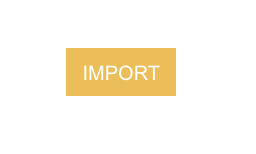
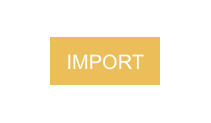
Update image formatting for snippets

Changed region(s): [[0.2275, 0.2927, 0.7678, 0.7073]]

diff --git a/2.4/snippets/javascript/pointer-position.md b/2.4/snippets/javascript/pointer-position.md
@@ -1,18 +1,18 @@
 # Pointer position example
 
-<div class="ndl-images">
-    <img src="/snippets/javascript/pointer-position.png" class="ndl-image large"></img>  
+<div class="ndl-image-with-background l">
+    <img src="/snippets/javascript/pointer-position.png"></img>
      <button class="ndl-copy-nodes-button" onClick='copyJsonToClipboard({"nodes":[{"id":"0f09b7cb-50ab-74b8-52c1-7058a0769284","type":"Javascript2","label":"Pointer Position","x":-497.981910869314,"y":389.26538248207396,"parameters":{"code":"function setPosition(e) {\n    Node.Outputs.PointerX = e.clientX;\n    Node.Outputs.PointerY = e.clientY;\n}\n\nNode.OnInit = function() {\n     document.body.addEventListener(\"mousemove\", setPosition);\n\t document.body.addEventListener(\"mousedown\", setPosition);\n}\n\nNode.OnDestroy = function() {\n\t document.body.removeEventListener(\"mousedown\", setPosition);\n\t document.body.removeEventListener(\"mousemove\", setPosition);    \n}"},"ports":[],"children":[]},{"id":"bdc3ce12-5c23-27ee-7918-ad154b20e668","type":"Number","label":"X","x":-249.18868850167155,"y":333.4616732156818,"parameters":{},"ports":[],"children":[]},{"id":"efbbb196-1b60-27f2-26c6-e7fc0d69d23d","type":"Number","label":"Y","x":-256.3223936828915,"y":481.4925282575018,"parameters":{},"ports":[],"children":[]}],"connections":[{"fromId":"0f09b7cb-50ab-74b8-52c1-7058a0769284","fromProperty":"PointerX","toId":"bdc3ce12-5c23-27ee-7918-ad154b20e668","toProperty":"value"},{"fromId":"0f09b7cb-50ab-74b8-52c1-7058a0769284","fromProperty":"PointerY","toId":"efbbb196-1b60-27f2-26c6-e7fc0d69d23d","toProperty":"value"}]})'></button>
 </div>
 
-This example will attach an event listener to the body element of the web page, and listen for mousemove. 
+This example will attach an event listener to the body element of the web page, and listen for mousemove.
 
 ```js
-Node.OnInit = function() {
-   document.body.addEventListener("mousemove", e=> {
-       Node.Outputs.PointerX = e.clientX;
-       Node.Outputs.PointerY = e.clientY;
-    }) 
+Node.OnInit = function () {
+    document.body.addEventListener('mousemove', (e) => {
+        Node.Outputs.PointerX = e.clientX
+        Node.Outputs.PointerY = e.clientY
+    })
 }
 ```
 
@@ -20,13 +20,13 @@ Now lets extend this to also include the `mousedown` event, so it updates direct
 
 ```js
 function setPosition(e) {
-    Node.Outputs.PointerX = e.clientX;
-    Node.Outputs.PointerY = e.clientY;
+    Node.Outputs.PointerX = e.clientX
+    Node.Outputs.PointerY = e.clientY
 }
 
-Node.OnInit = function() {
-     document.body.addEventListener("mousemove", setPosition);
-	 document.body.addEventListener("mousedown", setPosition);
+Node.OnInit = function () {
+    document.body.addEventListener('mousemove', setPosition)
+    document.body.addEventListener('mousedown', setPosition)
 }
 ```
 
@@ -34,17 +34,17 @@ We can extend this even further by removing the event listener when the JavaScri
 
 ```js
 function setPosition(e) {
-    Node.Outputs.PointerX = e.clientX;
-    Node.Outputs.PointerY = e.clientY;
+    Node.Outputs.PointerX = e.clientX
+    Node.Outputs.PointerY = e.clientY
 }
 
-Node.OnInit = function() {
-     document.body.addEventListener("mousemove", setPosition);
-	 document.body.addEventListener("mousedown", setPosition);
+Node.OnInit = function () {
+    document.body.addEventListener('mousemove', setPosition)
+    document.body.addEventListener('mousedown', setPosition)
 }
 
-Node.OnDestroy = function() {
-	 document.body.removeEventListener("mousedown", setPosition);
-	 document.body.removeEventListener("mousemove", setPosition);    
+Node.OnDestroy = function () {
+    document.body.removeEventListener('mousedown', setPosition)
+    document.body.removeEventListener('mousemove', setPosition)
 }
 ```

diff --git a/2.4/snippets/javascript/get-dom-element.md b/2.4/snippets/javascript/get-dom-element.md
@@ -1,16 +1,17 @@
 # Get DOM element
 
-<div class="ndl-images">
-    <img src="/snippets/javascript/get-dom-element.png" class="ndl-image large"></img>  
+<div class="ndl-image-with-background l">
+    <img src="/snippets/javascript/get-dom-element.png"></img>
      <button class="ndl-copy-nodes-button" onClick='copyJsonToClipboard({"nodes":[{"id":"da9a319e-46ae-0bba-f9f0-64115fd8326a","type":"Group","x":-26,"y":-78.00000000000003,"parameters":{},"ports":[],"children":[]},{"id":"432255e5-cf33-ab78-5dfc-c468fa2d35f0","type":"Javascript2","label":"Get DOM Element","x":-266,"y":-87,"parameters":{"code":"Node.Inputs = {\n    group:\"reference\"\n}\n\nNode.Signals = {\n    didMount() {\n        const domElement = Node.Inputs.group.getDOMElement();\n        //domElement.addEventListener(...)\n    },\n    willUnmount() {\n        // const domElement = Node.Inputs.group.getDOMElement();\n        // domElement.removeEventListener(...)\n    }\n}\n","scriptInputs":[]},"ports":[],"children":[]}],"connections":[{"fromId":"da9a319e-46ae-0bba-f9f0-64115fd8326a","fromProperty":"didMount","toId":"432255e5-cf33-ab78-5dfc-c468fa2d35f0","toProperty":"didMount"},{"fromId":"da9a319e-46ae-0bba-f9f0-64115fd8326a","fromProperty":"willUnmount","toId":"432255e5-cf33-ab78-5dfc-c468fa2d35f0","toProperty":"willUnmount"},{"fromId":"da9a319e-46ae-0bba-f9f0-64115fd8326a","fromProperty":"this","toId":"432255e5-cf33-ab78-5dfc-c468fa2d35f0","toProperty":"group"}]})'></button>
 </div>
 
 Sometimes you need to get access to the underlying DOM element and use the browser APIs directly.
 
 To get from a visual Noodl node to a DOM element we'll connect a visual node to a Script node. The input type should be `"reference"` (or `"*"` to accept all types). This example uses a Group, but any visual node will work.
+
 ```js
 Node.Inputs = {
-    group:"reference"
+    group: 'reference',
 }
 ```
 
@@ -20,18 +21,17 @@ A visual node might be unmonted, or haven't had a chance to render yet. To make 
 
 ```js
 Node.Inputs = {
-    group:"reference"
+    group: 'reference',
 }
 
 Node.Signals = {
     didMount() {
-        const domElement = Node.Inputs.group.getDOMElement();
+        const domElement = Node.Inputs.group.getDOMElement()
         //domElement.addEventListener(...)
     },
     willUnmount() {
         // const domElement = Node.Inputs.group.getDOMElement();
         // domElement.removeEventListener(...)
-    }
+    },
 }
-
 ```

diff --git a/2.4/snippets/responsive/media-query.md b/2.4/snippets/responsive/media-query.md
@@ -4,17 +4,19 @@ You can access media queries directly through a script. Here's an example you ca
 
 Open up a project and Noodl, and click import to get the **Media Query** component.
 
-<div class="ndl-images">
-    <img src="/snippets/responsive/media-query.png" class="ndl-image med"></img>  
+<div class="ndl-image-with-background">
+    <img src="/snippets/responsive/media-query.png"></img>
 <button class="ndl-import-button" onClick='importIntoNoodl("/snippets/responsive/media-query-project.zip")'></button>
 </div>
 
 You can use this component to show different parts of your UI depending on the screen size.
 
 Here's a few examples of media queries:
-- `(max-width: 375px)`. This will match if the screen size is `375px` or smaller, like on an iPhone 8, or iPhone X.
-- `(max-width: 768px)`. Typical size to check for tablets.
-- `(max-width: 1224px)`. Typical size to check for desktop and laptops.
+
+-   `(max-width: 375px)`. This will match if the screen size is `375px` or smaller, like on an iPhone 8, or iPhone X.
+-   `(max-width: 768px)`. Typical size to check for tablets.
+-   `(max-width: 1224px)`. Typical size to check for desktop and laptops.
 
 You can also create more complex media queries that check for multiple sizes, or a range:
-- `(min-device-width: 320px) and (max-device-height: 640px)`. This will match any size that's above `320px`, and no larger than `640px`.
+
+-   `(min-device-width: 320px) and (max-device-height: 640px)`. This will match any size that's above `320px`, and no larger than `640px`.

diff --git a/2.4/snippets/snippets.md b/2.4/snippets/snippets.md
@@ -1,15 +1,22 @@
 # Snippets
-Here you will find small and useful guides on how to solve a specific task in Noodl, we call them **Snippets**. 
+
+Here you will find small and useful guides on how to solve a specific task in Noodl, we call them **Snippets**.
 
 These snippets can include small Noodl node graphs that you can copy and paste into your project. If you see button bellow, You can click it to copy the nodes shown on the accompanying image to your clipboard, and then paste them into your project in Noodl.
 
-![](copy-nodes-button.png ':class=img-size-s')
+<div class="ndl-image-with-background s">
+
+![](copy-nodes-button.png)
+
+</div>
 
 Some snippets might be to big for copy/pasting, so if you encounter the "Import" button shown bellow, click it to import a module and/or components into Noodl. You can either do this into an existing project or create a new project. (it's often specific if the import is something you should put in your existing project).
 
-![](import-button.png ':class=img-size-s')
+<div class="ndl-image-with-background s">
 
+![](import-button.png)
 
+</div>
 
 Remember, if you have questions that aren't covered here, you can always join the conversation on [Discord](https://discord.gg/umRupsc2f5).
 

diff --git a/2.4/snippets/rotary-knob/rotary-knob.md b/2.4/snippets/rotary-knob/rotary-knob.md
@@ -4,29 +4,29 @@ This is an example of how to use the [Script](/nodes/javascript/script) node to 
 
 The knob has start and stop angles, and is not "endless".
 
-<div class="ndl-images">
-    <img src="/snippets/rotary-knob/rotary-knob.png" class="ndl-image med">
+<div class="ndl-image-with-background">
+    <img src="/snippets/rotary-knob/rotary-knob.png">
 <button class="ndl-import-button" onClick='importIntoNoodl("/snippets/rotary-knob/rotary-knob-1.0.1.zip")'></button>
 </div>
 
 ## Inputs
 
-**Min Value**  
+**Min Value**
 The minimum value the component should output
 
-**Max Value**  
+**Max Value**
 The maximum value the component should output
 
-**Value**  
+**Value**
 Set the start value, must be between **Min Value** and **Max Value**
 
-**Min Angle**  
+**Min Angle**
 The lowest angle the knob can turn to. Should be between -180 and 180.
 
-**Max Angle**  
+**Max Angle**
 The maximum angle the knob can turn to. Should be between -180 and 180.
 
 ## Outputs
 
-**Value**  
+**Value**
 The current value
